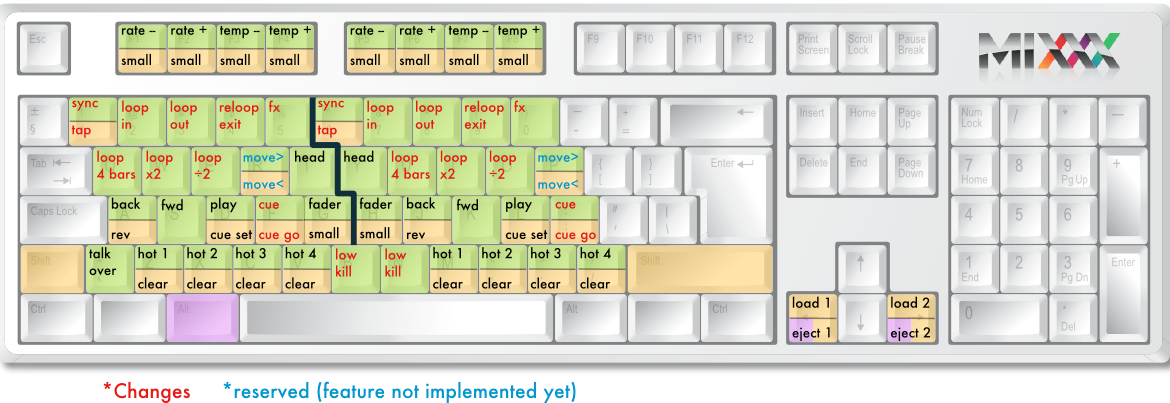
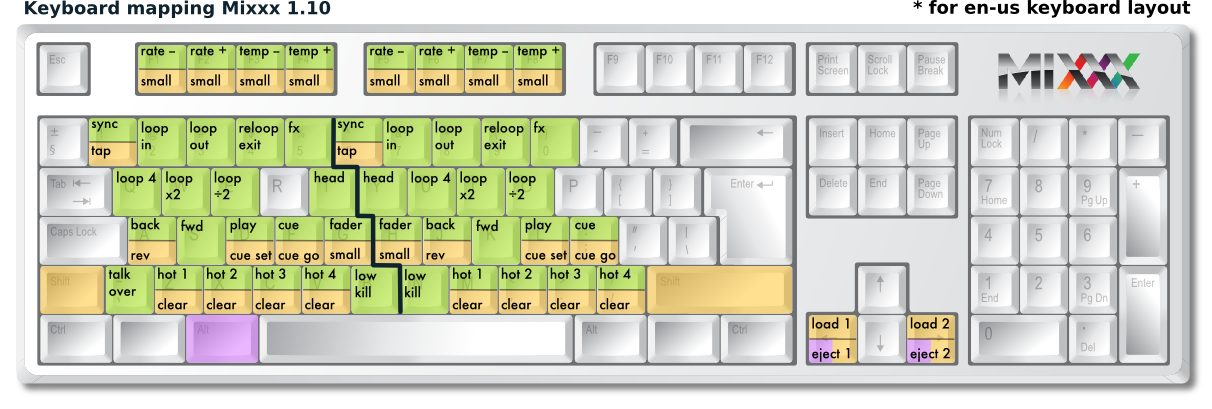
Updated text & graphic for keyboard mapping

diff --git a/source/chapters/setup.rst b/source/chapters/setup.rst
@@ -47,9 +47,15 @@ access the functions through Mixxx's interface.
 +----------------------------------------+---------------------+---------------------+--------------+
 | Function                               | Deck 1              | Deck 2              | Master       |
 +========================================+=====================+=====================+==============+
-| Crossfade Left                         |                     |                     |     G        |
+| Microphone Talkover                    |                     |                     | `            |
 +----------------------------------------+---------------------+---------------------+--------------+
-| Crossfade Right                        |                     |                     |     H        |
+| Crossfade Left                         |                     |                     | G            |
++----------------------------------------+---------------------+---------------------+--------------+
+| Crossfade Right                        |                     |                     | H            |
++----------------------------------------+---------------------+---------------------+--------------+
+| Small Crossfade Left                   |                     |                     | Shift + G    |
++----------------------------------------+---------------------+---------------------+--------------+
+| Small Crossfade Right                  |                     |                     | Shift + H    |
 +----------------------------------------+---------------------+---------------------+--------------+
 | Playback                               | D                   | L                   |              |
 +----------------------------------------+---------------------+---------------------+--------------+
@@ -61,29 +67,39 @@ access the functions through Mixxx's interface.
 +----------------------------------------+---------------------+---------------------+--------------+
 | Seek Backwards                         | A                   | J                   |              |
 +----------------------------------------+---------------------+---------------------+--------------+
+| Reverse Playback                       | Shift + A           | Shift + J           |              |
++----------------------------------------+---------------------+---------------------+--------------+
 | Seek Forwards                          | S                   | K                   |              |
 +----------------------------------------+---------------------+---------------------+--------------+
 | Bass Kill                              | B                   | N                   |              |
 +----------------------------------------+---------------------+---------------------+--------------+
-| 4 beat loop                            | Q                   | U                   |              |
+| Activate 4 Beat Loop                   | Q                   | U                   |              |
 +----------------------------------------+---------------------+---------------------+--------------+
-| double beat loop size                  | W                   | I                   |              |
+| Double Beat Loop Size                  | W                   | I                   |              |
 +----------------------------------------+---------------------+---------------------+--------------+
-| halve beat loop size                   | E                   | O                   |              |
+| Halve Beat Loop Size                   | E                   | O                   |              |
 +----------------------------------------+---------------------+---------------------+--------------+
-| set loop point                         | 2                   | 7                   |              |
+| Set Loop In Point                      | 2                   | 7                   |              |
 +----------------------------------------+---------------------+---------------------+--------------+
-| set loop out point (activates loop)    | 3                   | 8                   |              |
+| Set Loop Out Point (Activates Loop)    | 3                   | 8                   |              |
 +----------------------------------------+---------------------+---------------------+--------------+
-| Exit loop                              | 4                   | 9                   |              |
+| Toggle Loop On/Off                     | 4                   | 9                   |              |
 +----------------------------------------+---------------------+---------------------+--------------+
 | Activate/Disable Effects Unit          | 5                   | 0                   |              |
 +----------------------------------------+---------------------+---------------------+--------------+
-| Headphone Cue (P                       | T                   | Y                   |              |
+| Headphone Cue (Prelisten)              | T                   | Y                   |              |
++----------------------------------------+---------------------+---------------------+--------------+
+| Tempo Adjust Dow                       | F1                  | F5                  |              |
 +----------------------------------------+---------------------+---------------------+--------------+
 | Tempo Adjust Up                        | F2                  | F6                  |              |
 +----------------------------------------+---------------------+---------------------+--------------+
-| Tempo Adjust Dow                       | F1                  | F5                  |              |
+| Small Tempo Adjust Dow                 | Shift + F1          | Shift + F5          |              |
++----------------------------------------+---------------------+---------------------+--------------+
+| Small Tempo Adjust Up                  | Shift + F2          | Shift + F6          |              |
++----------------------------------------+---------------------+---------------------+--------------+
+| Temporary Tempo Adjust Down            | F3                  | F7                  |              |
++----------------------------------------+---------------------+---------------------+--------------+
+| Temporary Tempo Adjust Up              | F4                  | F8                  |              |
 +----------------------------------------+---------------------+---------------------+--------------+
 | Small Temporary Tempo Adjust Down      | Shift + F3          | Shift + F7          |              |
 +----------------------------------------+---------------------+---------------------+--------------+
@@ -93,13 +109,13 @@ access the functions through Mixxx's interface.
 +----------------------------------------+---------------------+---------------------+--------------+
 | BPM Tap Tempo Adjust                   | Shift + 1           | Shift + 0           |              |
 +----------------------------------------+---------------------+---------------------+--------------+
-| Hotcue 1                               | Z                   | M                   |              |
+| Set Hotcue 1                           | Z                   | M                   |              |
 +----------------------------------------+---------------------+---------------------+--------------+
-| Hotcue 2                               | X                   | ,                   |              |
+| Set Hotcue 2                           | X                   | ,                   |              |
 +----------------------------------------+---------------------+---------------------+--------------+
-| Hotcue 3                               | C                   | .                   |              |
+| Set Hotcue 3                           | C                   | .                   |              |
 +----------------------------------------+---------------------+---------------------+--------------+
-| Hotcue 4                               | V                   | /                   |              |
+| Set Hotcue 4                           | V                   | /                   |              |
 +----------------------------------------+---------------------+---------------------+--------------+
 | Clear Hotcue 1                         | Shift + Z           | Shift + M           |              |
 +----------------------------------------+---------------------+---------------------+--------------+
@@ -109,9 +125,9 @@ access the functions through Mixxx's interface.
 +----------------------------------------+---------------------+---------------------+--------------+
 | Clear Hotcue 4                         | Shift + V           | Shift + ?           |              |
 +----------------------------------------+---------------------+---------------------+--------------+
-| Load selected track                    | left arrow          | right arrow         |              |
+| Load selected track to deck            | Shift + left arrow  | Shift + right arrow |              |
 +----------------------------------------+---------------------+---------------------+--------------+
-| Unload selected track                  | Shift + left arrow  | Shift + right arrow |              |
+| Unload track from deck                 | Alt + Shift + left  | Alt + Shift + right |              |
 +----------------------------------------+---------------------+---------------------+--------------+
 
 **Customizing** 
@@ -122,6 +138,10 @@ by the user -
 * Linux: /usr/share/mixxx/keyboard/Standard.kbd.cfg 
 * MacOS X: <Mixxx bundle>/keyboard/Standard.kbd.cfg 
 * Windows: <Mixxx dir>\keyboard\Standard.kbd.cfg  
+
+You can share custom keyboard mappings in the `Mixxx User customizations forum`_.
+
+.. _Mixxx User customizations forum: http://mixxx.org/forums/viewforum.php?f=6
 
 Using a MIDI Controller
 -----------------------
